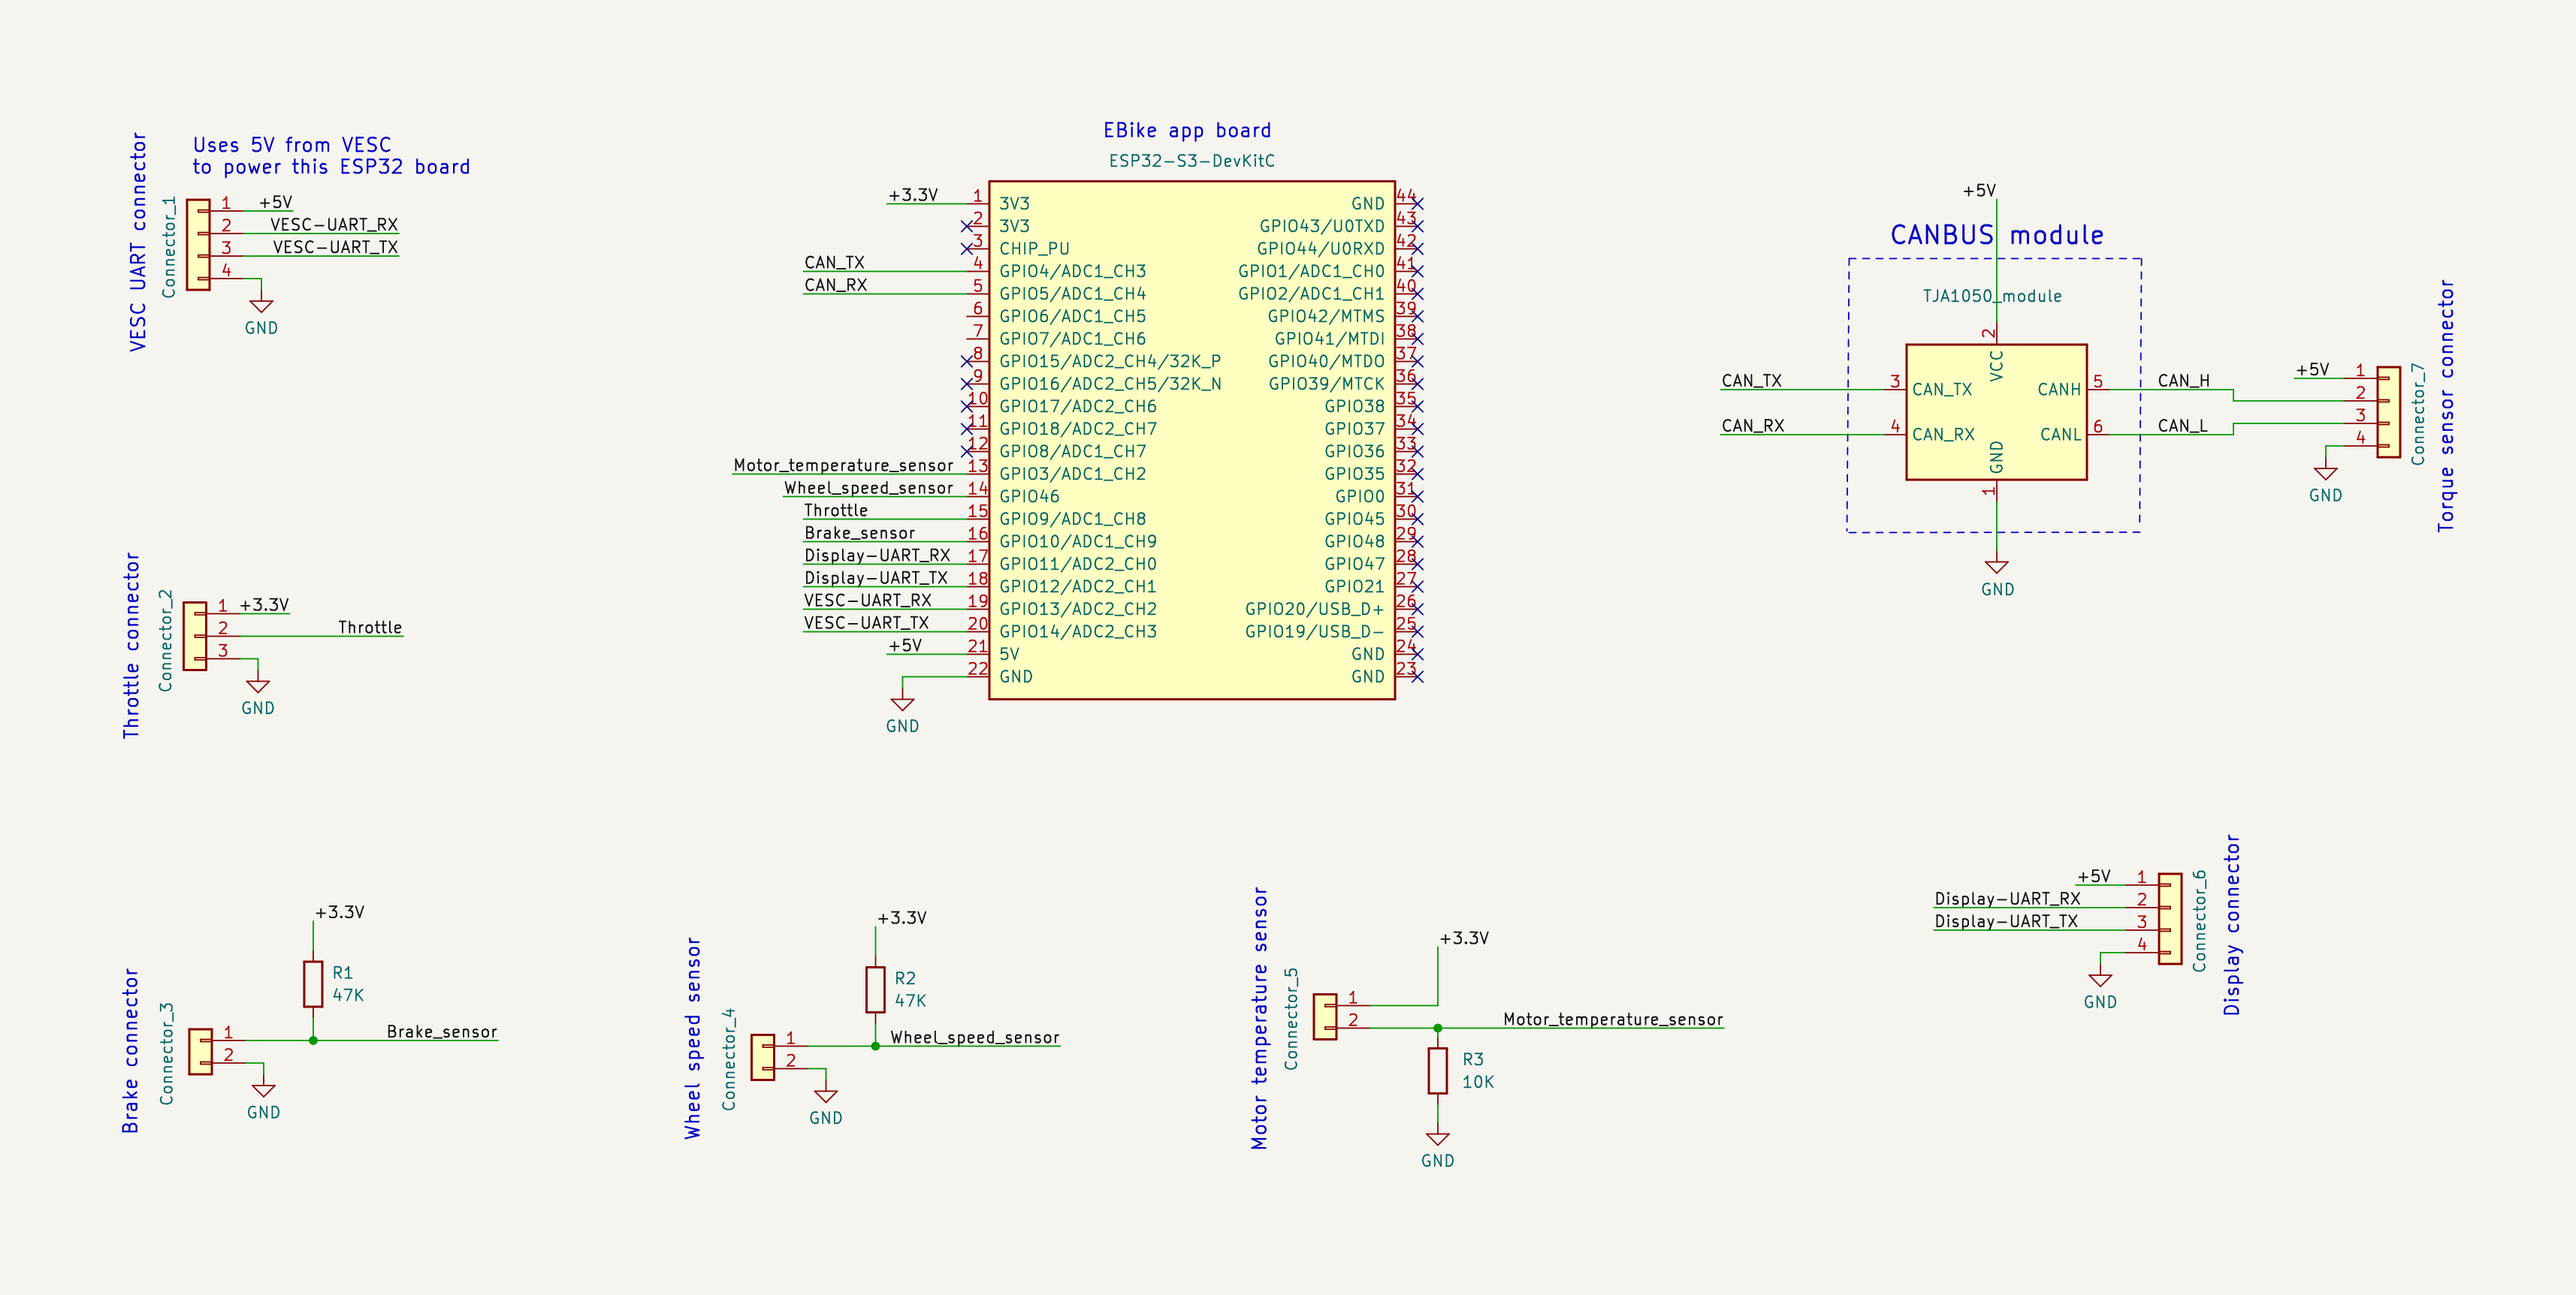
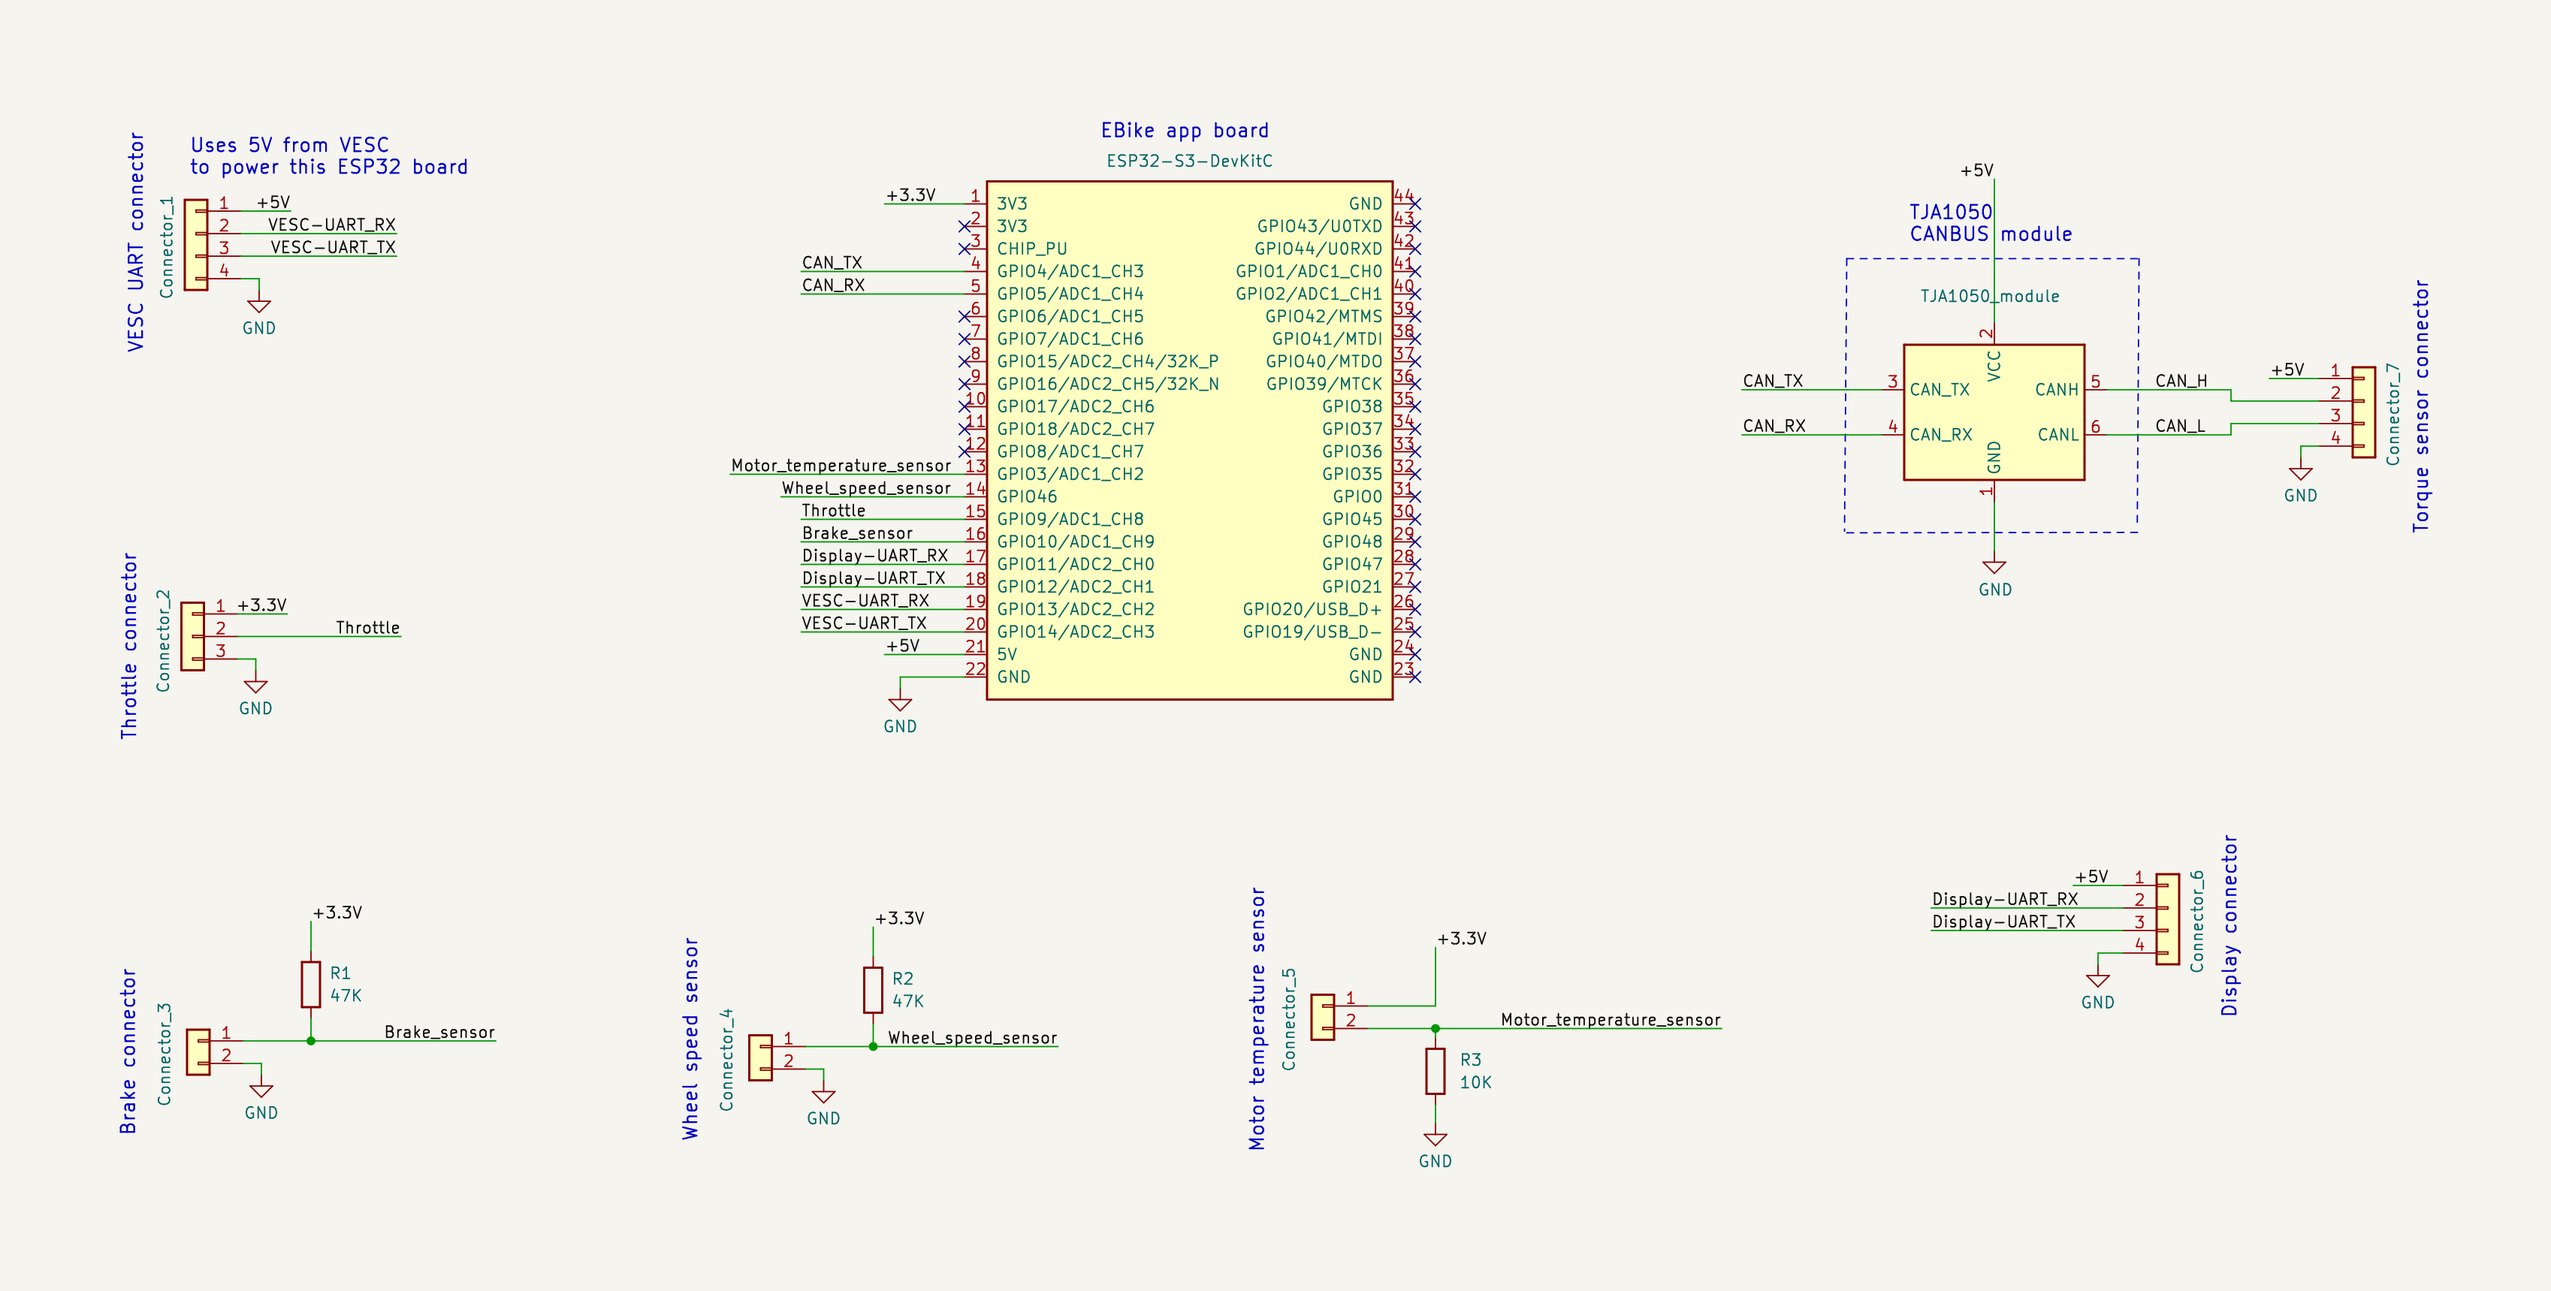
Small changes

diff --git a/firmware/testing_firmwares/testing_CANBUS_torque_sensor.py b/firmware/testing_firmwares/testing_CANBUS_torque_sensor.py
@@ -5,8 +5,6 @@
 
 # Set bellow the CAN_TX_PIN and CAN_RX_PIN, depending on the connections you did to your ESP32 board
 
-# NOTE: make sure the Bafang torque sensor has 5V power supply, because it needs at least like 4.7 vols, otherwise it will not work.
-
 #############################
 
 import board
@@ -22,7 +20,7 @@ CAN_RX_PIN = board.IO5
 # Bafang torque sensor CAN baudrate is 250khz, so use 250000
 CAN_BAUDRATE = 250000
 
-can = canio.CAN(CAN_TX_PIN, CAN_RX_PIN, baudrate = CAN_BAUDRATE, loopback=True)
+can = canio.CAN(CAN_TX_PIN, CAN_RX_PIN, baudrate = CAN_BAUDRATE)
 
 while True:
     with can.listen(timeout=1.0) as listener:
